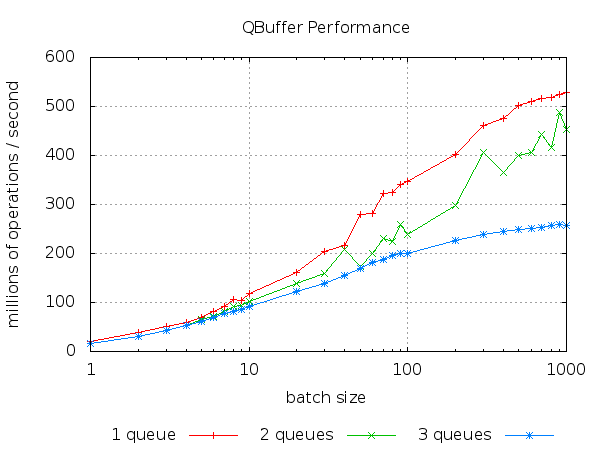
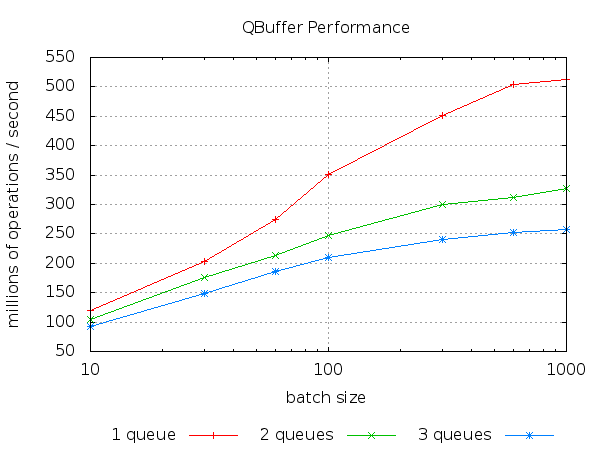
refactored producer and consumer to subclass participant

diff --git a/src/main/java/net/nostromo/qbuffer/QBufferParticipant.java b/src/main/java/net/nostromo/qbuffer/QBufferParticipant.java
@@ -1,0 +1,89 @@
+/*
+ * Copyright (c) 2013 Mark D. Horton
+ *
+ * This is free software; you can redistribute it and/or modify it under the
+ * terms of the GNU Lesser General Public License as published by the Free
+ * Software Foundation; either version 3 of the License, or (at your option)
+ * any later version.
+ *
+ * This software is distributed in the hope that it will be useful, but
+ * WITHOUT ANY WARRANTY; without even the implied warranty of MERCHANTABIL-
+ * ITY or FITNESS FOR A PARTICULAR PURPOSE. See the GNU Lesser General
+ * Public License for more details.
+ *
+ * You should have received a copy of the GNU Lesser General Public License
+ * along with this program. If not, see <http://www.gnu.org/licenses/>.
+ */
+package net.nostromo.qbuffer;
+
+import java.util.concurrent.atomic.AtomicLong;
+
+public abstract class QBufferParticipant<E> {
+
+    protected final int capacity;
+    protected final int batchSize;
+    protected final int mask;
+
+    // these 3 items are shared by producer and consumer objects
+    protected final E[] data;
+    protected final AtomicLong yen;
+    protected final AtomicLong yang;
+
+    protected long ops;
+    protected long opsCapacity;
+
+    public QBufferParticipant(final int capacity, final int batchSize, final E[] data, final AtomicLong yen,
+                              final AtomicLong yang) {
+        this.capacity = capacity;
+        this.batchSize = batchSize;
+        this.mask = capacity - 1;
+        this.data = data;
+        this.yen = yen;
+        this.yang = yang;
+    }
+
+    abstract long calcOpsCapacity();
+
+    public long begin() {
+        // do we need to calculate a new opsCapacity?
+        if (opsCapacity == 0) opsCapacity = calcOpsCapacity();
+        // return opsCapacity, but not greater than batchSize
+        return (batchSize < opsCapacity) ? batchSize : opsCapacity;
+    }
+
+    public long setCommit() {
+        return commit(QBuffer.CommitMode.SET);
+    }
+
+    public long lazySetCommit() {
+        return commit(QBuffer.CommitMode.LAZY_SET);
+    }
+
+    public long lazySetMixCommit() {
+        return commit(QBuffer.CommitMode.LAZY_SET_MIX);
+    }
+
+    private long commit(final QBuffer.CommitMode mode) {
+        final long opCount = ops - yang.get();
+        opsCapacity -= opCount;
+
+        switch (mode) {
+            case LAZY_SET_MIX:
+                // if we've used up the current opsCapacity then set(), otherwise lazySet(),
+                // this logic seemed to perform slightly better that just lazySet()
+                if (opsCapacity == 0) yang.set(ops);
+                else yang.lazySet(ops);
+                break;
+            case SET:
+                // just set()
+                yang.set(ops);
+                break;
+            case LAZY_SET:
+                // just lazySet()
+                yang.lazySet(ops);
+                break;
+        }
+
+        return opCount;
+    }
+}

diff --git a/src/main/java/net/nostromo/qbuffer/QBufferConsumer.java b/src/main/java/net/nostromo/qbuffer/QBufferConsumer.java
@@ -18,76 +18,19 @@ package net.nostromo.qbuffer;
 
 import java.util.concurrent.atomic.AtomicLong;
 
-public class QBufferConsumer<E> {
+public class QBufferConsumer<E> extends QBufferParticipant<E> {
 
-    // these 5 final fields are shared between producer and consumer
-    private final int batchSize;
-    private final int mask;
-    private final E[] data;
-    private final AtomicLong head;
-    private final AtomicLong tail;
-
-    private long removes;
-    private long removesCapacity;
-    private long removesLastCommit;
-
-    protected QBufferConsumer(final int capacity, final int batchSize, final E[] data, final AtomicLong head,
-                              final AtomicLong tail) {
-        this.batchSize = batchSize;
-        this.mask = capacity - 1;
-        this.data = data;
-        this.head = head;
-        this.tail = tail;
+    public QBufferConsumer(final int capacity, final int batchSize, final E[] data, final AtomicLong head,
+                    final AtomicLong tail) {
+        super(capacity, batchSize, data, tail, head); // tail and head are flipped for consumer
     }
 
-    public long begin() {
-        // do we need to calculate a new removesCapacity?
-        if (removesCapacity == 0) removesCapacity = tail.get() - removes;
-
-        // return removesCapacity, but not greater than batchSize
-        return (batchSize < removesCapacity) ? batchSize : removesCapacity;
+    // yen is the tail for the consumer
+    long calcOpsCapacity() {
+        return yen.get() - ops;
     }
 
     public E remove() {
-        return data[(int) (removes++ & mask)];
-    }
-
-    public long lazySetMixCommit() {
-        return commit(QBuffer.CommitMode.LAZY_SET_MIX);
-    }
-
-    public long setCommit() {
-        // have we already set() committed the current removes?
-        if (removesLastCommit == removes) return 0;
-        removesLastCommit = removes;
-        return commit(QBuffer.CommitMode.SET);
-    }
-
-    public long lazySetCommit() {
-        return commit(QBuffer.CommitMode.LAZY_SET);
-    }
-
-    private long commit(final QBuffer.CommitMode mode) {
-        final long addCount = removes - head.get();
-        // decrement the removesCapacity
-        removesCapacity -= addCount;
-
-        switch (mode) {
-            case LAZY_SET_MIX:
-                // if we've used up the current removesCapacity then set(), otherwise lazySet()
-                if (removesCapacity == 0) head.set(removes);
-                else head.lazySet(removes);
-                break;
-            case SET:
-                // just set()
-                head.set(removes);
-                break;
-            case LAZY_SET:
-                // just lazySet()
-                head.lazySet(removes);
-                break;
-        }
-
-        return addCount;
+        return data[(int) (ops++ & mask)];
     }
 }

diff --git a/src/main/java/net/nostromo/qbuffer/QBufferProducer.java b/src/main/java/net/nostromo/qbuffer/QBufferProducer.java
@@ -18,76 +18,19 @@ package net.nostromo.qbuffer;
 
 import java.util.concurrent.atomic.AtomicLong;
 
-public class QBufferProducer<E> {
+public class QBufferProducer<E> extends QBufferParticipant<E> {
 
-    private final int capacity;
-    private final int batchSize;
-    private final int mask;
-    private final E[] data;
-    private final AtomicLong head;
-    private final AtomicLong tail;
-
-    private long adds;
-    private long addsCapacity;
-    private long addsLastCommit;
-
-    protected QBufferProducer(final int capacity, final int batchSize, final E[] data, final AtomicLong head,
-                              final AtomicLong tail) {
-        this.capacity = capacity;
-        this.batchSize = batchSize;
-        this.mask = capacity - 1;
-        this.data = data;
-        this.head = head;
-        this.tail = tail;
+    public QBufferProducer(final int capacity, final int batchSize, final E[] data, final AtomicLong head,
+                    final AtomicLong tail) {
+        super(capacity, batchSize, data, head, tail);
     }
 
-    public long begin() {
-        // do we need to calculate a new addsCapacity?
-        if (addsCapacity == 0) addsCapacity = capacity - (adds - head.get());
-
-        // return addsCapacity, but not greater than batchSize
-        return (batchSize < addsCapacity) ? batchSize : addsCapacity;
+    // yen is the head for the producer
+    long calcOpsCapacity() {
+        return capacity - (ops - yen.get());
     }
 
     public void add(final E e) {
-        data[(int) (adds++ & mask)] = e;
-    }
-
-    public long lazySetMixCommit() {
-        return commit(QBuffer.CommitMode.LAZY_SET_MIX);
-    }
-
-    public long setCommit() {
-        // have we already set() committed the current adds?
-        if (addsLastCommit == adds) return 0;
-        addsLastCommit = adds;
-        return commit(QBuffer.CommitMode.SET);
-    }
-
-    public long lazySetCommit() {
-        return commit(QBuffer.CommitMode.LAZY_SET);
-    }
-
-    private long commit(final QBuffer.CommitMode mode) {
-        final long addCount = adds - tail.get();
-        addsCapacity -= addCount;
-
-        switch (mode) {
-            case LAZY_SET_MIX:
-                // if we've used up the current addsCapacity then set(), otherwise lazySet()
-                if (addsCapacity == 0) tail.set(adds);
-                else tail.lazySet(adds);
-                break;
-            case SET:
-                // just set()
-                tail.set(adds);
-                break;
-            case LAZY_SET:
-                // just lazySet()
-                tail.lazySet(adds);
-                break;
-        }
-
-        return addCount;
+        data[(int) (ops++ & mask)] = e;
     }
 }

diff --git a/src/main/java/net/nostromo/qbuffer/PerfTest.java b/src/main/java/net/nostromo/qbuffer/PerfTest.java
@@ -39,15 +39,15 @@ public class PerfTest {
     }
 
     public static void main(final String[] args) throws Exception {
-        final boolean runSingle = false;
+        final boolean runSingle = true;
         final boolean runMulti = true;
         final boolean runUnit = false;
         final boolean runWarmup = true;
 
-        final long operations = 3_000_000_000L;
+        final long operations = 300_000_000L;
         final int iterations = 20;
 
-        final int[] baseBatchSizes = {1, 10, 100, 1000};
+        final int[] baseBatchSizes = {1};
         final int[] batchMultipliers = {1, 3, 6};
         final int[] queueCounts = {2, 3};
 
@@ -56,7 +56,7 @@ public class PerfTest {
 
         // warmup
         if (runWarmup) {
-            final int batchSize = 10;
+            final int batchSize = 1;
             final int capacity = batchSize * 1_000;
 
             System.out.println("warmup");
@@ -70,7 +70,6 @@ public class PerfTest {
         }
 
         System.out.println("starting perf runs");
-
 
         for (int baseBatchSize : baseBatchSizes) {
             for (int batchMultiplier : batchMultipliers) {
@@ -112,7 +111,7 @@ public class PerfTest {
     }
 
     private void stats(final String name, final long operations, final long nanos) {
-        //printStats(name, operations, nanos);
+        printStats(name, operations, nanos);
 
         long[] vals = results.get(name);
         if (vals == null) {

diff --git a/README.md b/README.md
@@ -3,7 +3,7 @@ QBuffer
 
 QBuffer is a fast batch oriented queue implementation for single producer/single consumer scenarios.  It works best when multiple items need to be added or removed from the queue.
 
-For example, adding 10 items at a time yields a throughput of 100 million items/second.  Adding 100 items at a time yields 400 million items/second.
+For example, adding 10 items at a time yields a throughput of 100 million items/second.  Adding 100 items at a time yields 350 million items/second.  Adding 1000 items at a time yields 500 million items/second.
 
 For a brief writeup see: http://blog.nostromo.net/2013/09/qbuffer.html
 
